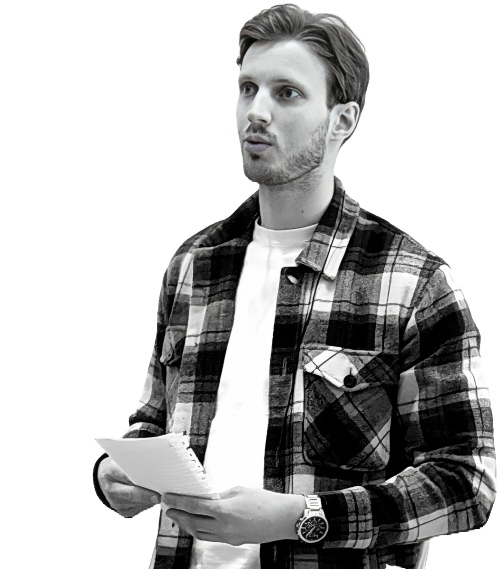
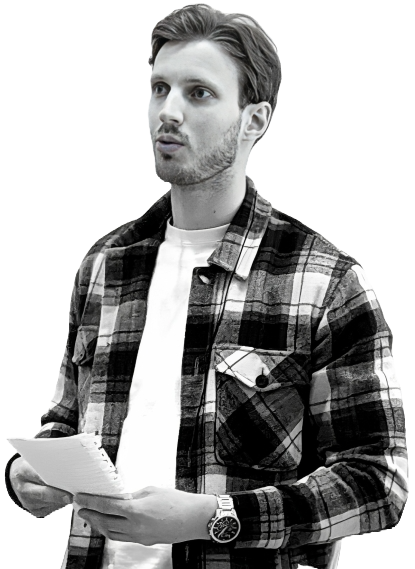
fix: fixed styles

diff --git a/css/styles.css b/css/styles.css
@@ -33,7 +33,7 @@ header ul {
 }
 
 header ul li:hover {
-    color: blue;
+    color: orange;
     transition: 0.2s;
 }
 
@@ -48,7 +48,7 @@ header a {
 }
 
 .section {
-    padding: 6rem 0 5rem 0;
+    padding: 6rem 0 2rem 0;
     background-color: rgba(211, 211, 211, 0.2);
 }
 
@@ -56,7 +56,7 @@ header a {
     display: flex;
     justify-content: center;
     align-items: center;
-    padding: 4rem 0;
+    padding: 5rem 0;
 }
 
 .main {
@@ -72,13 +72,14 @@ header a {
 }
 
 .icons {
-    padding: 0 0 18px 0;
+    display: flex;
+    gap: 0.5em;
 }
 
 .main p {
     font-size: 20px;
     display: flex;
-    margin: 28px 0 16px 0;
+    margin: 1.5rem 0;
 }
 
 .main a {
@@ -91,22 +92,14 @@ header a {
     transition: ease-in-out 0.2s;
 }
 
-.waving {
-    height: 3rem;
-    position: absolute;
-    right: 13rem;
-    top: 5rem;
-    width: 3rem;
-}
-
 .container-img img {
-    width: 320px;
+    width: 272px;
 }
 
 .tech {
     display: flex;
     align-items: center;
-    padding: 30px 0;
+    padding: 30px 0 22px 0;
 }
 
 .tech ul {
@@ -164,11 +157,12 @@ header a {
 
 .container-img {
     display: flex;
-    align-self: flex-start;
+    align-self: center;
+    padding: 0 3rem;
 }
 
 #about {
-    padding: 10rem 0;
+    padding: 12rem 0;
 }
 
 .about-container {
@@ -188,17 +182,13 @@ header a {
     align-content: center;
 }
 
-.about-text h3,
-.about-text h4,
-.about-text p {
+.about-text h3, .about-text h4, .about-text p {
     opacity: 0;
     transform: translateY(20px);
     transition: opacity 2s ease, transform 1.5s ease;
 }
 
-.about-text h3.slide-in,
-.about-text h4.slide-in,
-.about-text p.slide-in {
+.about-text h3.slide-in, .about-text h4.slide-in, .about-text p.slide-in {
     opacity: 1;
     transform: translateY(0);
 }
@@ -231,10 +221,11 @@ header a {
 
 #projects {
     background-color: rgba(211, 211, 211, 0.2);
-    padding: 8rem 0;
+    padding: 5rem 0;
 }
 
 #projects h1 {
+    color: orange;
     display: flex;
     justify-content: center;
     font-size: 3rem;
@@ -395,6 +386,92 @@ header a {
     color: orange;
 }
 
+@media (max-width: 500px) {
+    header {
+        padding: 0 1rem;
+    }
+
+    header ul li, .name {
+        font-size: 16px;
+        font-weight: 900;
+    }
+
+    .title {
+        font-size: 2rem;
+        align-self: center;
+        padding: 1rem 4rem 0;
+    }
+
+    .tech-space, .currently-space {
+        display: none;
+        padding: 0;
+    }
+
+    .tech-stack, .currently {
+        padding: 0;
+    }
+
+    .tech {
+        display: block;
+        align-self: center;
+    }
+
+    .tech ul {
+        padding: 1.5rem 0 0 0;
+    }
+
+    .container {
+        padding: 0;
+    }
+
+    .container-img img {
+        width: 184px;
+    }
+
+    .icons {
+        padding: 0 4rem;
+    }
+
+    .main p {
+        margin: 1.5rem 4rem;
+    }
+
+    .about-container {
+        flex-direction: column;
+    }
+
+    .about-text {
+        padding: 0 2em;
+    }
+
+    .about-text h4 {
+        font-size: 26px;
+    }
+
+    #about {
+        padding: 5rem 0;
+    }
+
+    br {
+     display: none;
+    }
+
+    #projects h1 {
+        margin: 0 0 1rem 0;
+    }
+
+    .card-text {
+        padding: 0 2.5rem;
+    }
+
+    .card-text p {
+        width: auto;
+    }
+
+    .contact-icons {
+        gap: 2rem;
+    }
+}
 
 @media (max-width: 690px) {
     .contact-container {
@@ -405,7 +482,12 @@ header a {
 @media (max-width: 860px) {
     .img-container {
         padding: 0 2rem;
-        align-content: center;
+        display: flex;
+        justify-content: center;
+    }
+
+    .img-container img {
+        width: 88%;
     }
 }
 
@@ -452,4 +534,3 @@ footer {
     display: flex;
     gap: 12px;
 }
-

diff --git a/index.html b/index.html
@@ -2,6 +2,7 @@
 <html lang="en">
 <head>
     <meta charset="UTF-8">
+    <meta name="viewport" content="width=device-width, initial-scale=1.0">
     <title>🚀 TCS.dev Portfolio</title>
     <link href="css/styles.css" rel="stylesheet">
     <link rel="preconnect" href="https://fonts.googleapis.com">
@@ -33,7 +34,7 @@
 <section id="home" class="section">
     <div class="container">
         <div class="main">
-            <h1 class="title">Front-End Next.js<br> Developer  <img class="waving" src="assets/images/waving2.png" alt="waving"></h1>
+            <h1 class="title">Front-End Next.js<br> Developer👋</h1>
             <p>Hello, I'm Tom Christer Schöön. A Front-end Developer<br> based in Oslo, Norway.📍<br></p>
             <div class="icons">
                 <a href="https://www.linkedin.com/in/tom-christer-sch%C3%B6%C3%B6n-bb8ab1226/" target="_blank"><span>
@@ -105,7 +106,7 @@
             <h3>ABOUT ME</h3>
             <h4>Front-End Developer <br>Based in Oslo, Norway.📍</h4>
             <p>Experienced teacher with a strong interest in technology and development.<br>
-                Proficient in programming and coding with a focus on <br>front-end
+                Proficient in programming and coding with a focus on<br> front-end
                 development and design.
             <br>
             <br>
